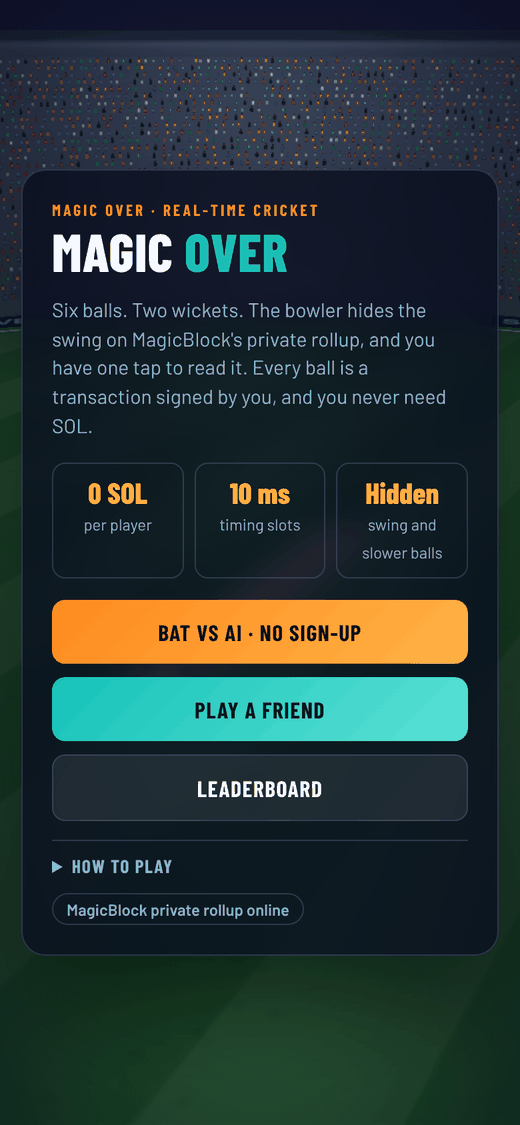
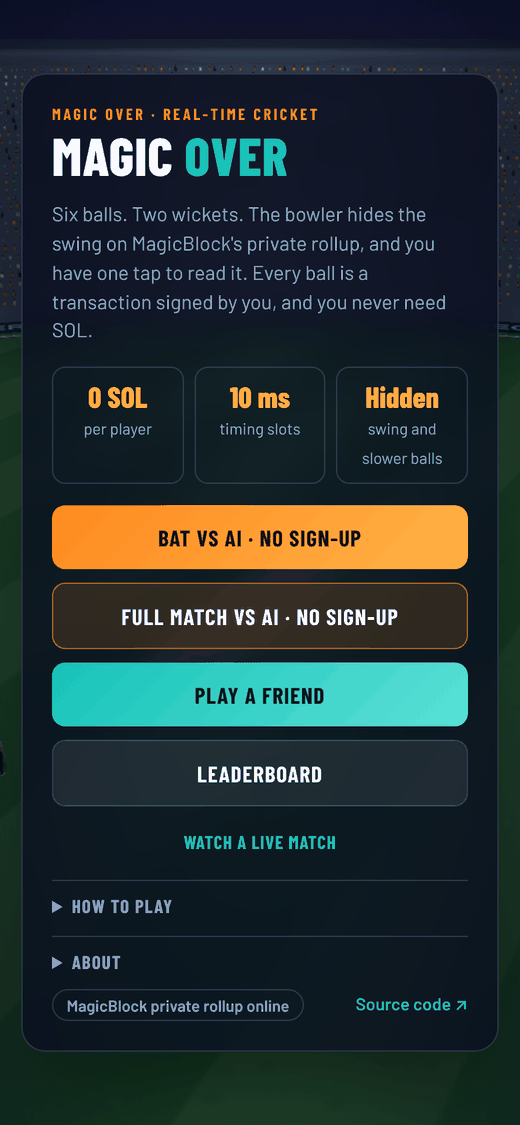
README: ways to play (Bat vs AI, full match vs AI, friends, watching), and a current home-screen picture
- The game section lists the four ways to play, with what each needs; watching moves there from the friend
  section, since it covers games against the AI too.
- How it uses MagicBlock: the public ER also runs the friend leaderboard; the private ER runs every match;
  only a human bowler can read the hidden variation, never the batter or a watcher.
- media/preview-home.png retaken from the live site on 6 November, same size and method as the 5 November set.

Claude-Session: https://claude.ai/code/session_01VPm9ofKhk6ZHjnevh1Xkts

diff --git a/README.md b/README.md
@@ -46,15 +46,20 @@ Each side bats one over of six balls, with two wickets.
 
 The program judges shot timing on the rollup in 10 ms slots: perfect within ±60 ms, good within ±130 ms and an edge within ±240 ms. These are scoring windows on the rollup, not a promise of 10 ms end-to-end latency. Network delay still affects the player.
 
-In Bat vs AI, MagicBlock VRF sets a target of 3 to 8 runs and picks the AI's deliveries. In a full match vs AI, you bat an over against the AI, then bowl one at it, as in a friend match: VRF picks the AI's deliveries and its shots, and the AI sees pace, line and length like any batter, never your hidden variation. Playing a friend needs a player ID.
+Ways to play:
+
+- **Bat vs AI** (no sign-up): chase a target of 3 to 8 runs set by MagicBlock VRF, which also picks the AI's deliveries.
+- **Full match vs AI** (no sign-up): bat an over against the AI, then bowl one at it, as in a friend match. VRF picks the AI's deliveries and its shots. The AI sees pace, line and length like any batter, never your hidden variation.
+- **Play a friend** (needs a player ID): create a match and share its code, or join an open one.
+- **Watch** (no sign-up): follow any live match from the home screen. The watching page only reads the table and sends nothing. It sees what the batter sees, so the hidden variation stays hidden until the ball is played.
 
 ## How it uses MagicBlock
 
 | Feature | Use in Magic Over |
 | --- | --- |
-| **Public ER** | Runs the delegated player registry, so players can register without any SOL. |
-| **Private ER / PER** | Runs create, join, bowl, shot and resolution across eight reusable match tables. |
-| **Private account permissions** | A separate ball account holds the bowler's hidden variation. Pace, line and length are visible; the variation is revealed after the ball is resolved. |
+| **Public ER** | Runs the delegated player registry and the friend leaderboard, so players can register and record results without any SOL. |
+| **Private ER / PER** | Runs every match, against a friend or the AI: create, join, bowl, shot and resolution across eight reusable match tables. |
+| **Private account permissions** | A separate ball account holds the hidden variation. Only a human bowler can read it: never the batter or a watcher, and nobody while the AI bowls. Pace, line and length are visible; the variation is revealed after the ball is resolved. |
 | **VRF** | Picks the AI's target, its deliveries and, in a full match, its shots. The program checks the expected callback signer, table and sequence. The hidden variation also mixes in a private secret, so the VRF output alone does not reveal it. |
 | **Zero-SOL player actions** | Player keys with no SOL sign every rollup move in the browser, with no wallet pop-ups. Sponsor costs still exist. |
 | **Solana commits** | Registration asks for a registry save to Solana Devnet. Each newly recorded friend result asks for a save of the leaderboard totals. Match tables stay delegated so they can be reused quickly. |
@@ -64,8 +69,6 @@ The browser checks that it is talking to the expected MagicBlock validators. It 
 ## Friend matches and the leaderboard
 
 Create a match and share its code, or pick an open match from the lobby. After the result, both players can choose **Rematch with this friend**. The original host reopens the same table after its 15-second reset, and the friend joins that exact next match.
-
-Anyone can watch a live match from the home screen, without signing up: the watching page only reads the table and sends nothing. Watchers see what the batter sees, so the hidden variation stays hidden until the ball is played.
 
 The **shared leaderboard** keeps recorded totals by player key in a separate result register, so reusing a match table does not erase them. A win is worth 3 points and a draw 1. AI practice is separate. Completed forfeits count, and a result recorded twice counts once.
 
@@ -86,7 +89,7 @@ The leaderboard refreshes every five seconds while it is open and catches up whe
 - `programs/`: source for the game, the player registry and the result register, with a shared pinned build setup.
 - `media/onboarding.mp4`: 37-second recording on the live site. A player is created in one browser and recovered in a second browser with nothing saved.
 - `media/pitch.mp4`: narrated, captioned pitch with desktop and mobile gameplay.
-- `media/preview-*`: the pictures in these guides, taken from the live site on 5 November 2026.
+- `media/preview-*`: the pictures in these guides, taken from the live site on 5 and 6 November 2026.
 - `LICENSE` and `THIRD_PARTY_NOTICES.md`: project and bundled dependency licences.
 
 No package installation or login server is needed. The game talks directly to Solana and MagicBlock. To build the programs, use the pinned toolchain and `sbpf-linker 0.2.5`, then run `cargo build-bpf` from `programs/`.
